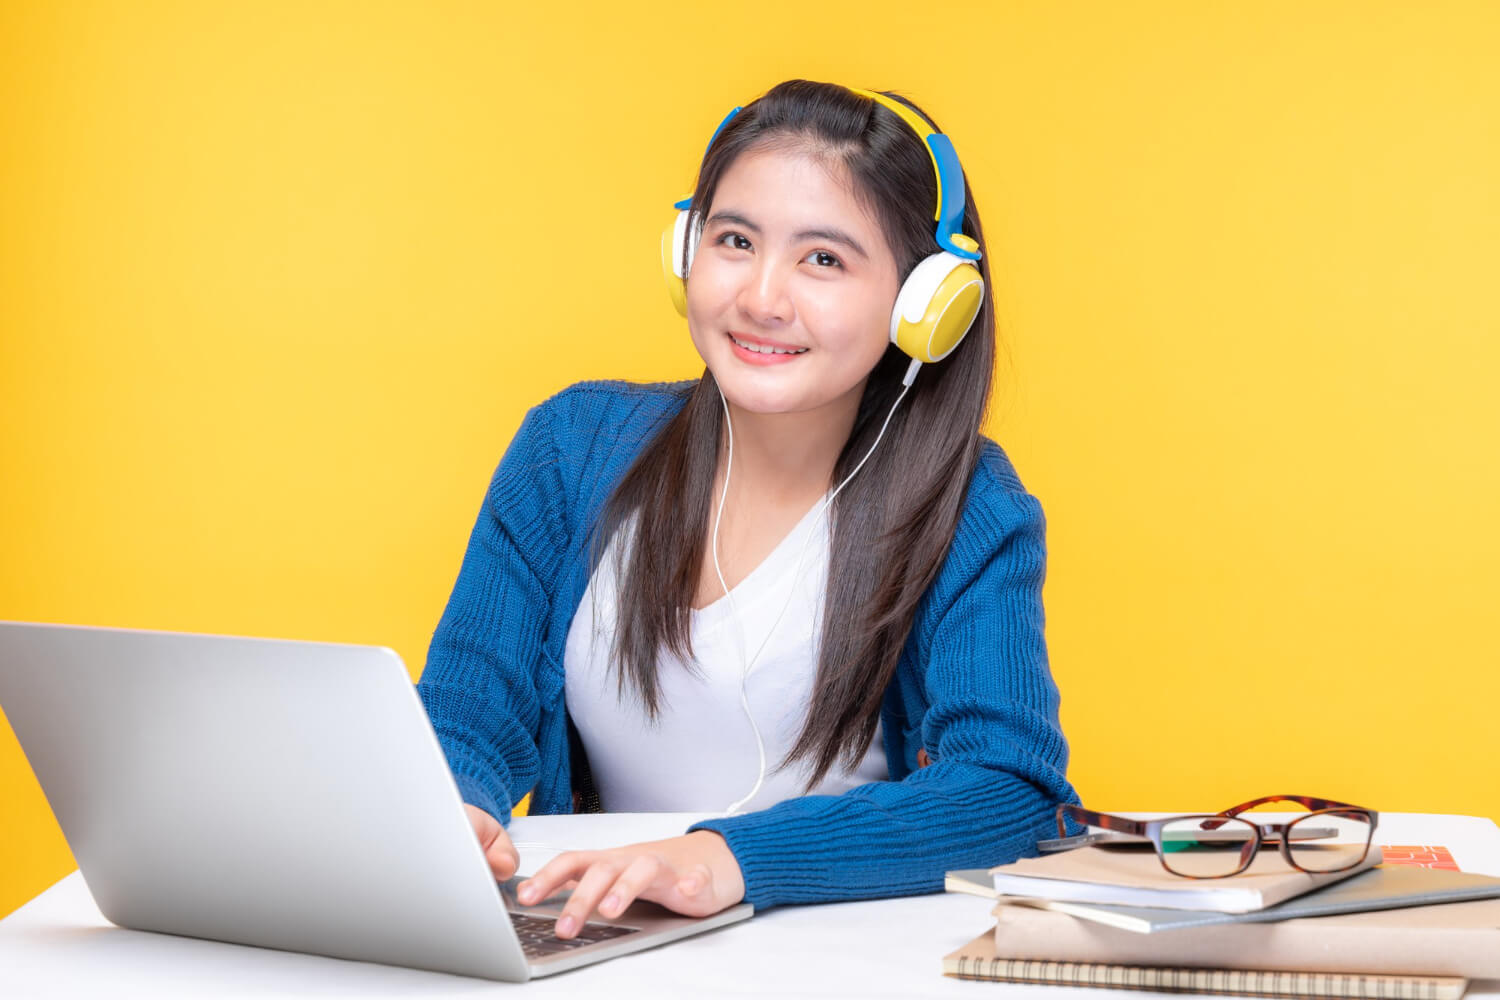
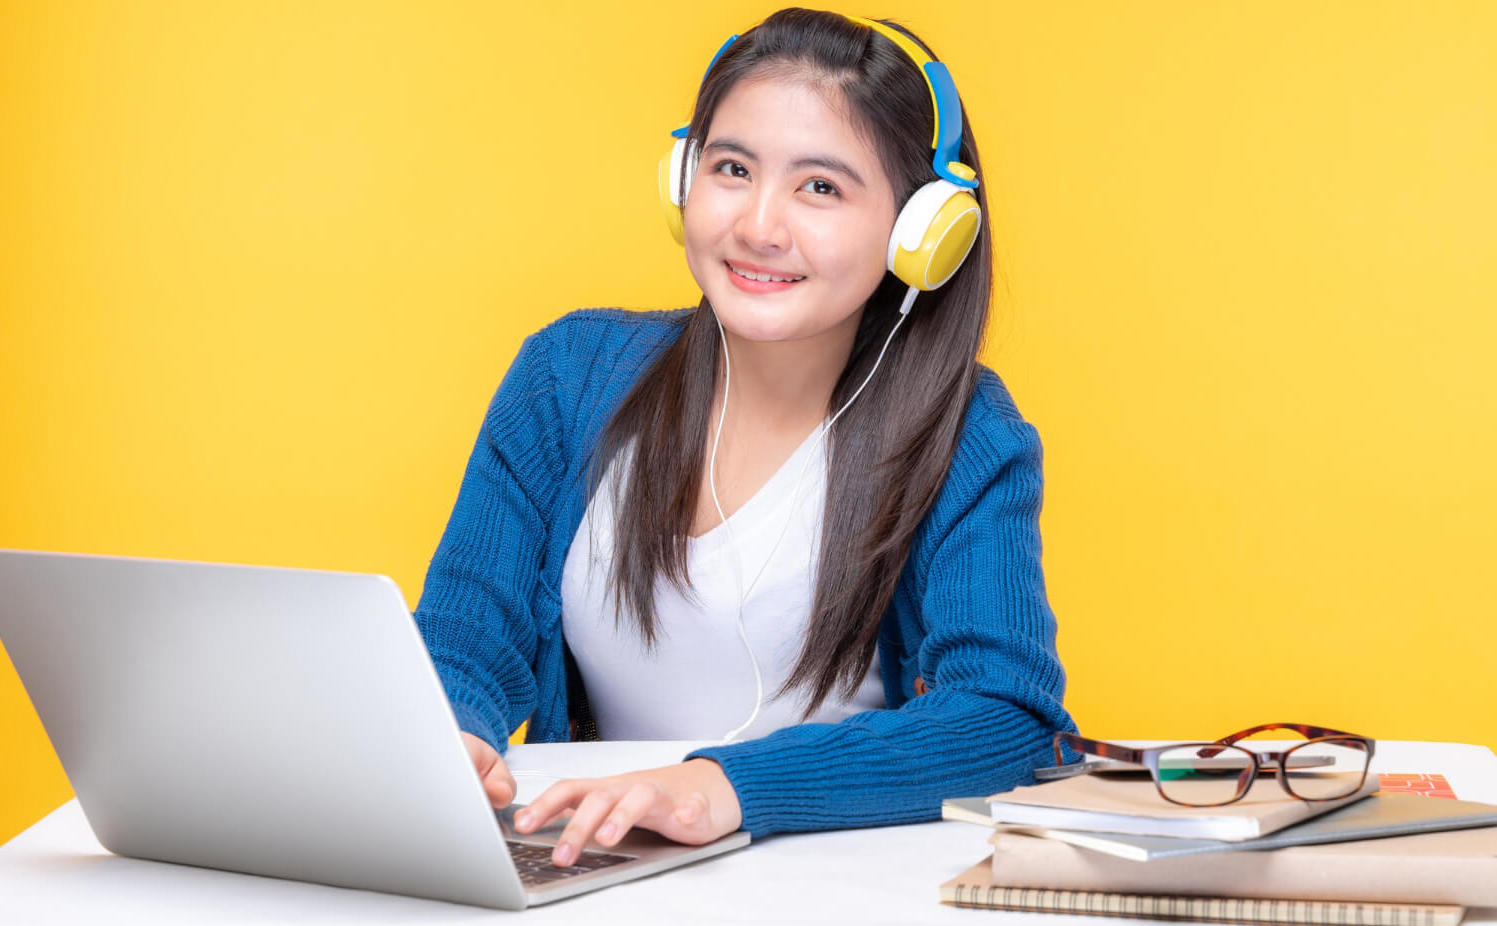
slider_banner

diff --git a/index.html b/index.html
@@ -9,9 +9,12 @@
   <body>
     <!-- heaader section code -->
     <header class="pt-4">
-        <nav class="navbar navbar-expand-lg bg-white">
+        <nav class="navbar navbar-expand-lg navbar-expand-md navbar-expand-sm bg-white">
             <div class="container">
               <a class="navbar-brand" href="#">e<span class="text-danger">Learning</span></a>
+              <button class="navbar-toggler" type="button" data-bs-toggle="collapse" data-bs-target="#navbarSupportedContent" aria-controls="navbarSupportedContent" aria-expanded="false" aria-label="Toggle navigation">
+                <span class="navbar-toggler-icon"></span>
+              </button>
               <div class="collapse navbar-collapse text-dark " id="navbarSupportedContent">
                 <ul class="navbar-nav me-auto mb-2 mb-lg-0">
                   <li class="nav-item">
@@ -21,14 +24,15 @@
                     <a class="nav-link" href="#">About Us</a>
                   </li>
                   <li class="nav-item">
-                    <a class="nav-link disabled">Courses</a>
+                    <a class="nav-link" href="#">Courses</a>
                   </li>
                   <li class="nav-item">
-                    <a class="nav-link disabled">Live</a>
+                    <a class="nav-link" href="#">Live</a>
                   </li>
                   <li class="nav-item">
-                    <a class="nav-link disabled">Log in</a>
+                    <a class="nav-link" href="#">Log in</a>
                   </li>
+                  
                 </ul>
                 <form class="d-flex" role="search">
                   <button class="btn btn-outline-danger " type="submit">Sign Up</button>
@@ -37,6 +41,53 @@
             </div>
           </nav>
     </header>
+
+    <!-- banner section code  -->
+    <section class="container py-5">
+        <div id="carouselExampleCaptions" class="carousel slide" data-bs-ride="false">
+            <div class="carousel-indicators">
+              <button type="button" data-bs-target="#carouselExampleCaptions" data-bs-slide-to="0" class="active" aria-current="true" aria-label="Slide 1"></button>
+              <button type="button" data-bs-target="#carouselExampleCaptions" data-bs-slide-to="1" aria-label="Slide 2"></button>
+              <button type="button" data-bs-target="#carouselExampleCaptions" data-bs-slide-to="2" aria-label="Slide 3"></button>
+            </div>
+            <div class="carousel-inner">
+              <div class="carousel-item active">
+                <img src="images/cover/cover-1.png" class="d-block w-100 card-img" alt="...">
+                <div class="card-img-overlay ">
+                    <div class="carousel-caption d-none d-md-block">
+                        <h1 class="text-danger">Strat Your eLearnign</h1>
+                      <p class="text-light">Take a step that you need before. elearning with you, let's explore it</p>
+                      <a class="btn btn-info" href="">Get Start</a>
+                      </div>
+                </div>
+              </div>
+              <div class="carousel-item">
+                <img src="images/cover/cover-3.jpg" class="d-block w-100" alt="...">
+                <div class="carousel-caption d-none d-md-block">
+                    <h1 class="text-danger">Strat Your eLearnign</h1>
+                  <p class="text-light">Take a step that you need before. elearning with you, let's explore it</p>
+                  <a class="btn btn-info" href="">Get Start</a>
+                  </div>
+              </div>
+              <div class="carousel-item">
+                <img src="images/cover/cover-1.png" class="d-block w-100" alt="...">
+                <div class="carousel-caption d-none d-md-block">
+                    <h1 class="text-danger">Strat Your eLearnign</h1>
+                  <p class="text-light">Take a step that you need before. elearning with you, let's explore it</p>
+                  <a class="btn btn-info" href="">Get Start</a>
+                  </div>
+              </div>
+            </div>
+            <button class="carousel-control-prev" type="button" data-bs-target="#carouselExampleCaptions" data-bs-slide="prev">
+              <span class="carousel-control-prev-icon" aria-hidden="true"></span>
+              <span class="visually-hidden">Previous</span>
+            </button>
+            <button class="carousel-control-next" type="button" data-bs-target="#carouselExampleCaptions" data-bs-slide="next">
+              <span class="carousel-control-next-icon" aria-hidden="true"></span>
+              <span class="visually-hidden">Next</span>
+            </button>
+          </div>
+    </section>
 
     <script src="https://cdn.jsdelivr.net/npm/bootstrap@5.2.0/dist/js/bootstrap.bundle.min.js" integrity="sha384-A3rJD856KowSb7dwlZdYEkO39Gagi7vIsF0jrRAoQmDKKtQBHUuLZ9AsSv4jD4Xa" crossorigin="anonymous"></script>
   </body>
